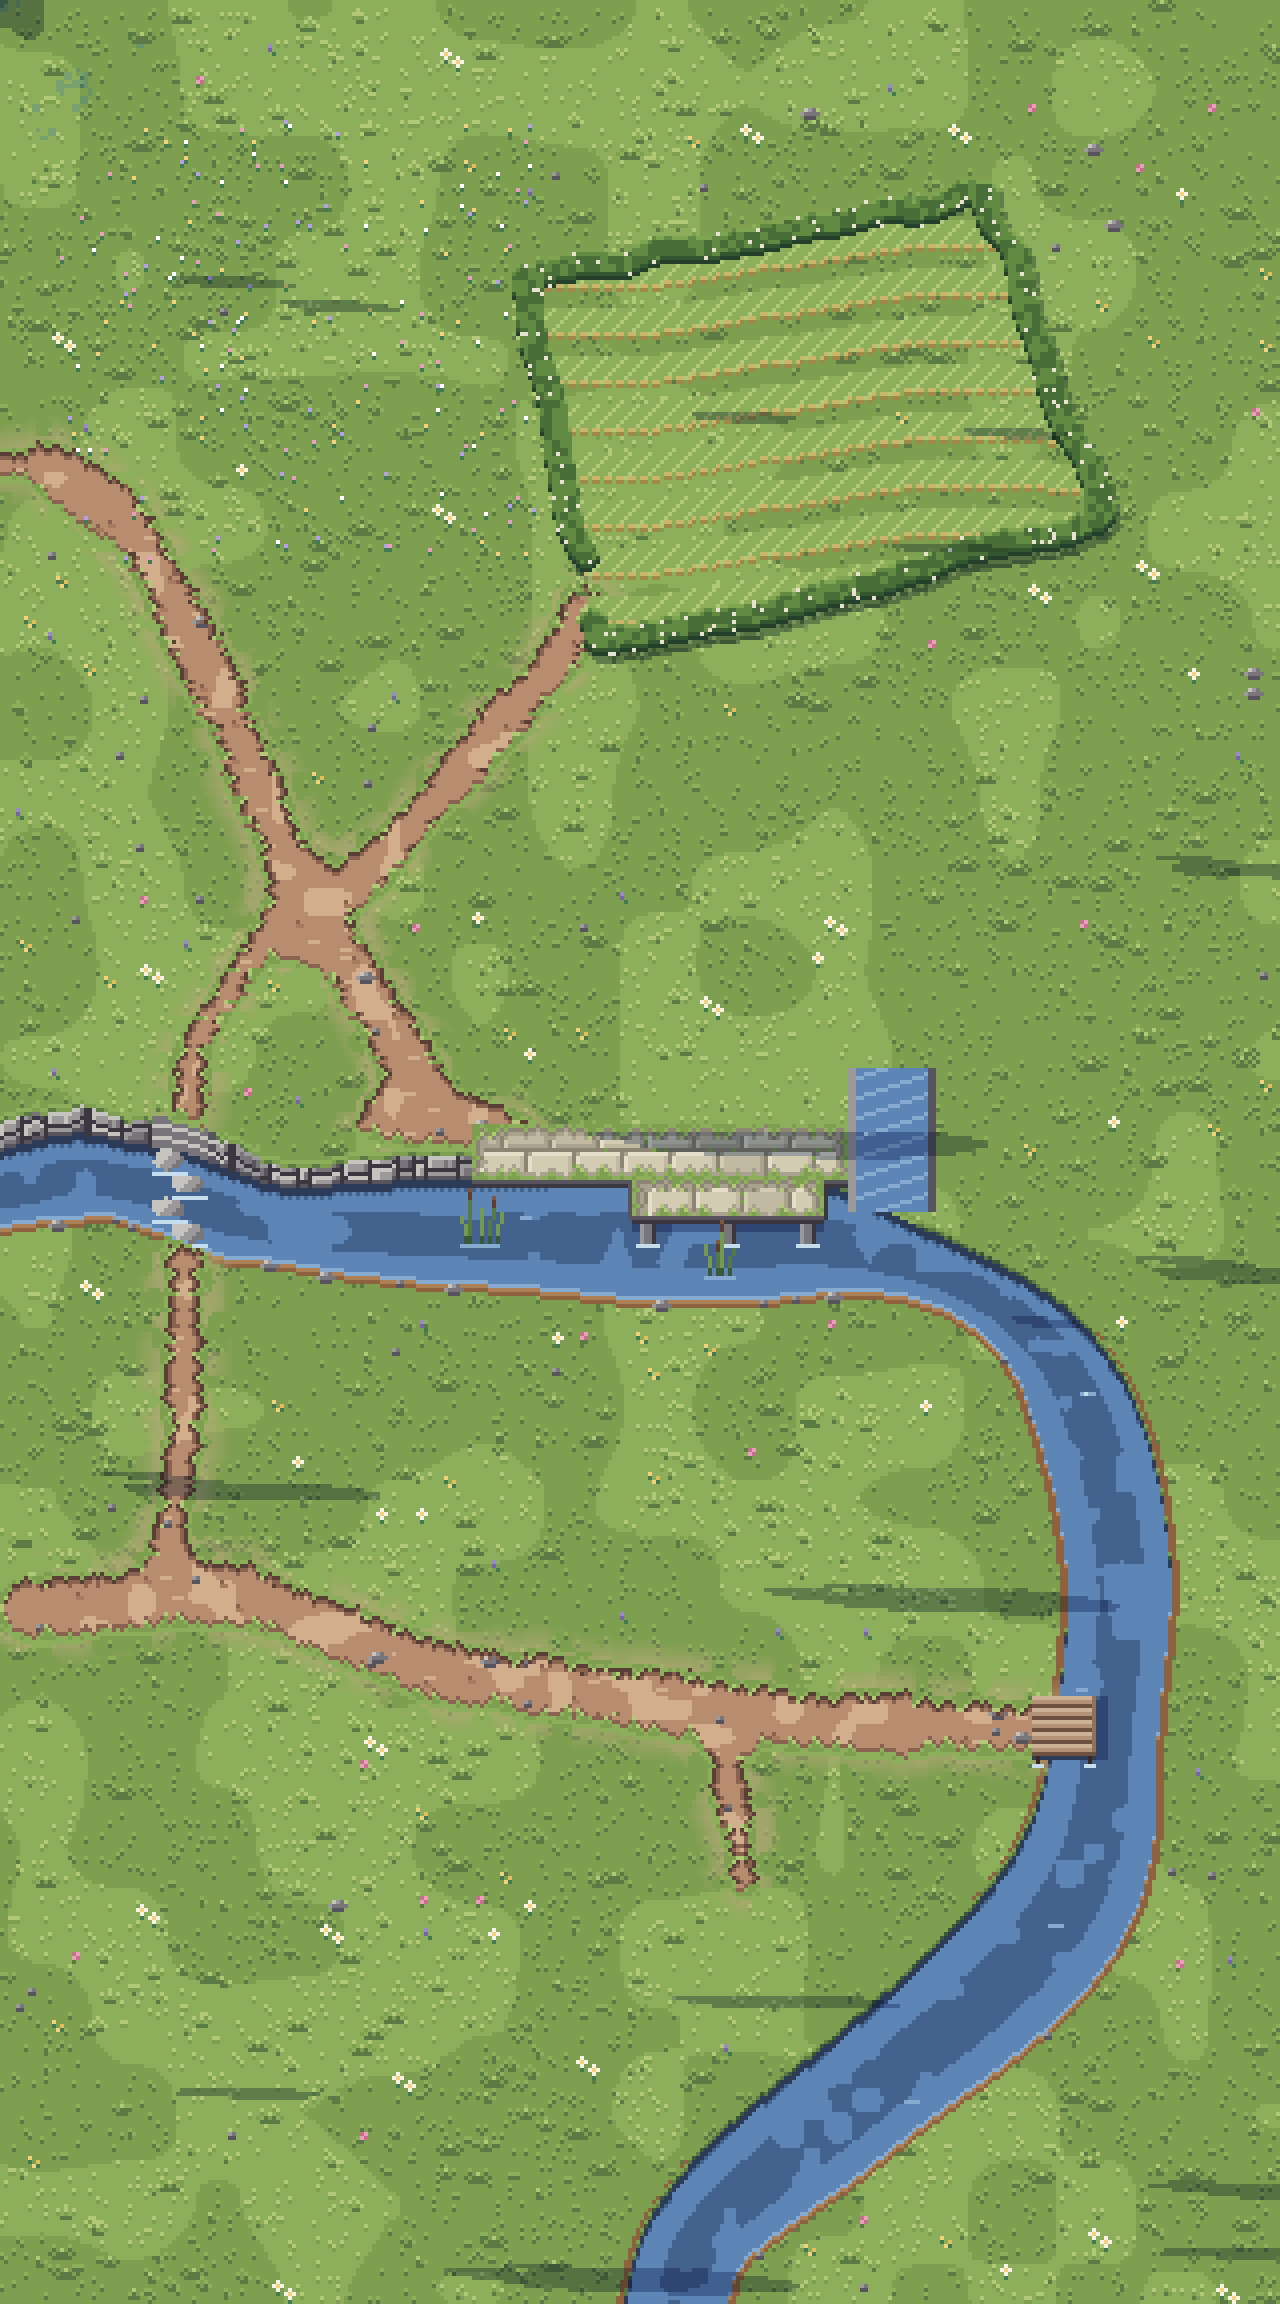
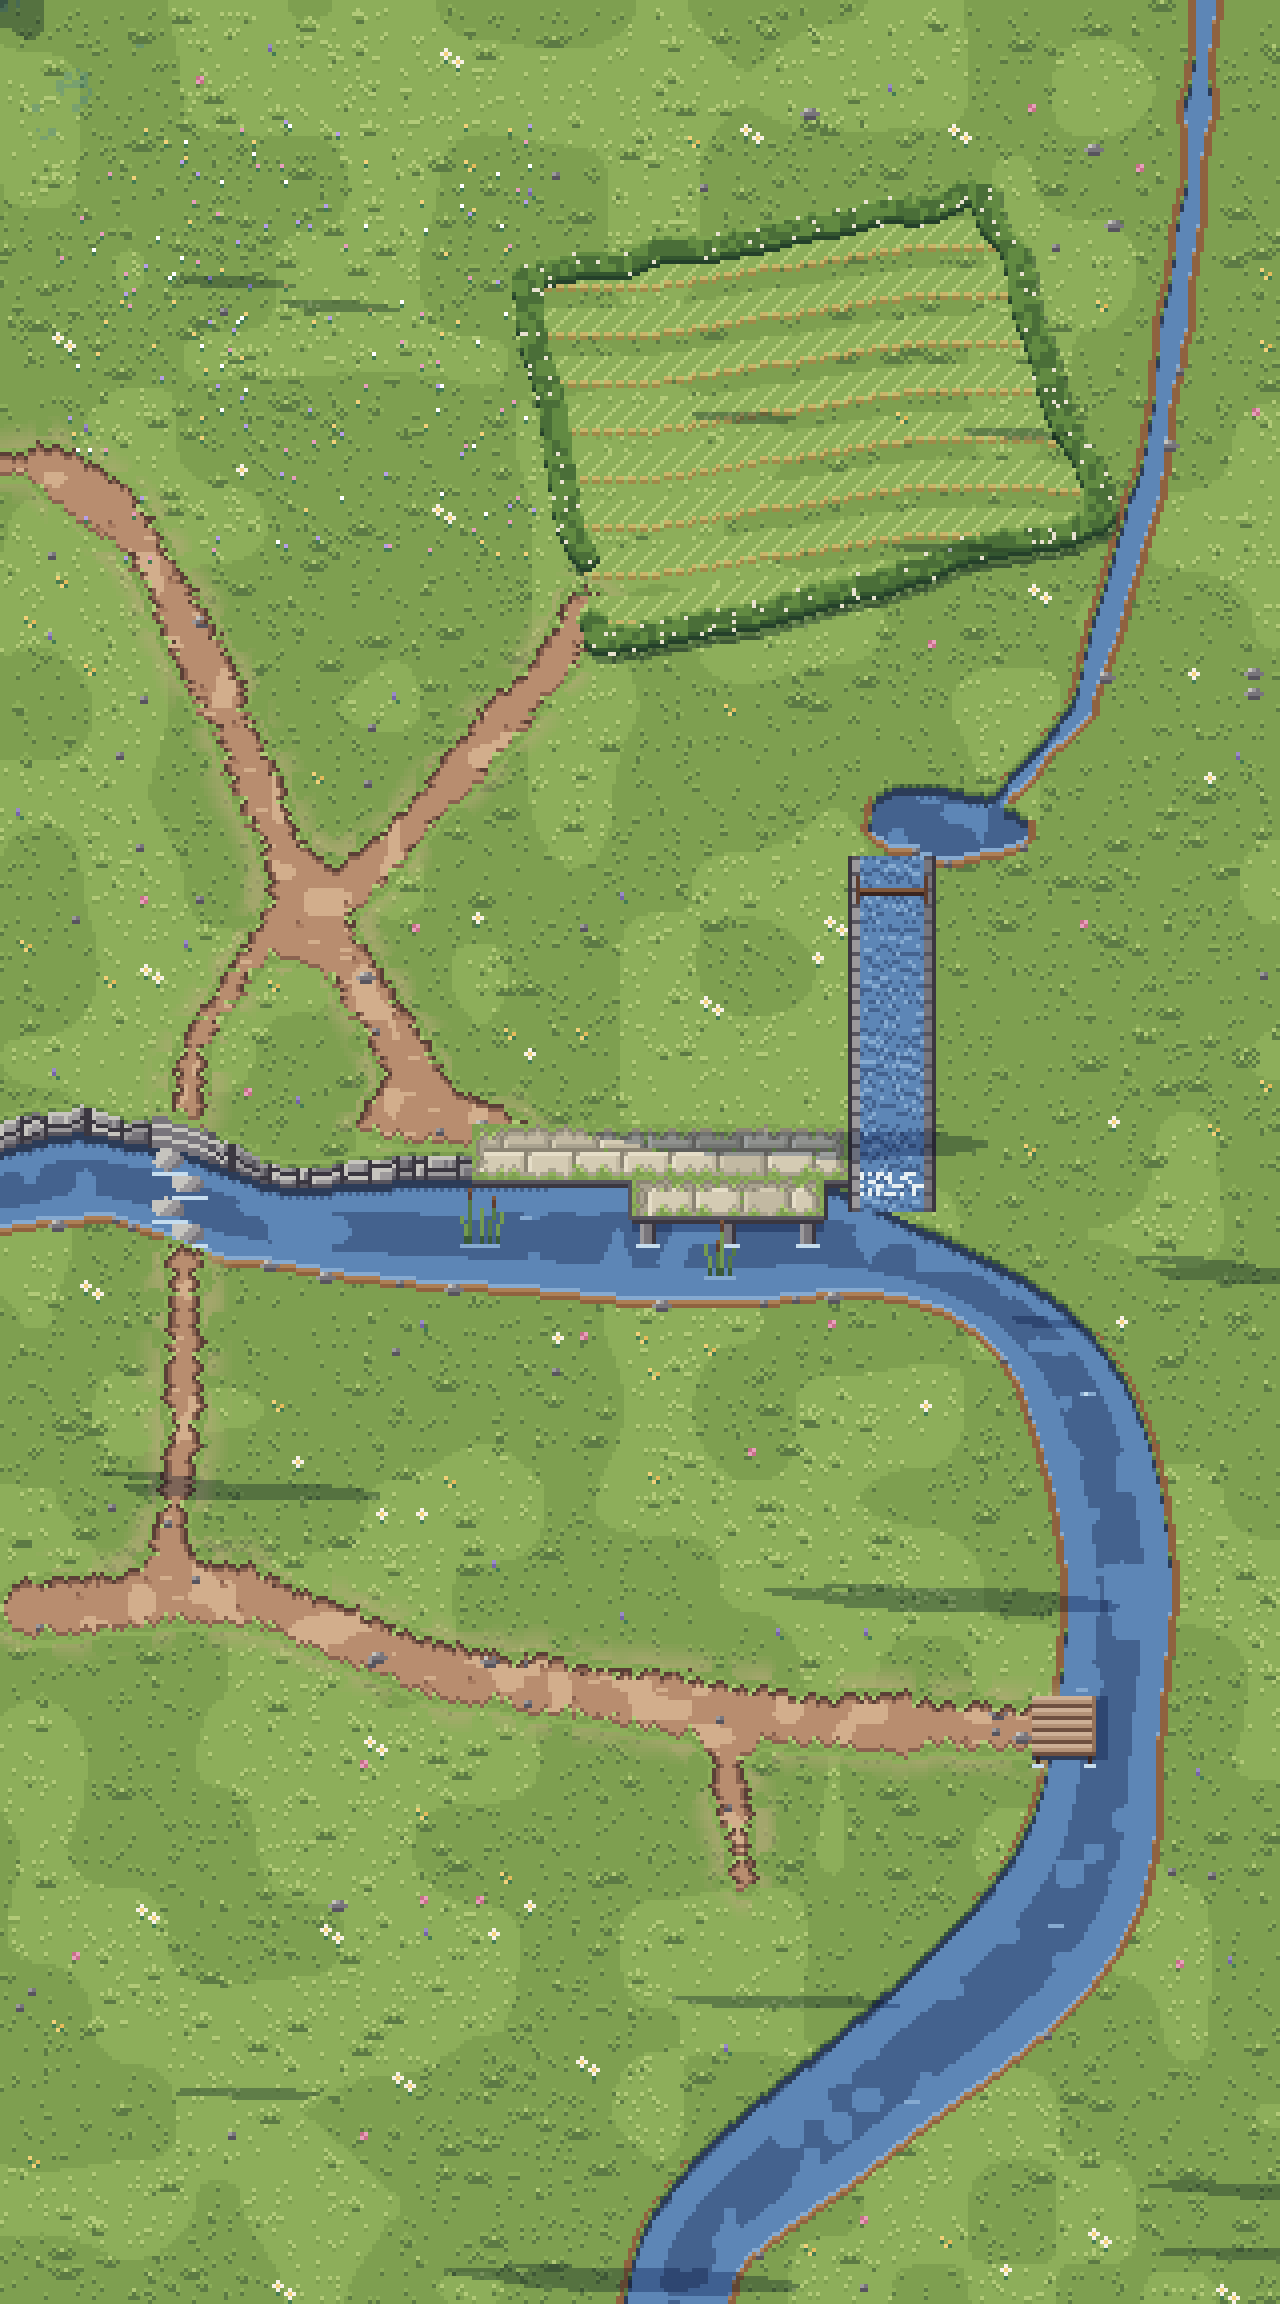
The mill's water: a brook into a millpond, a headrace with its sluice into the wheel pit, the pit walled in stone
Claude A after #73 asked for the wheel pit's race from upstream; Claude B (#77) drew the
wheel edge-on, breastshot from the north. A brook comes down off the wooded slope in the
north-east into a small millpond behind the mill; a stone-lined headrace leaves the pond
by a sluice board and drops into the pit's north end at about axle height; the pit runs
south between coursed stone walls with the water streaking and foaming at the wheel's
foot, and spills into the river. The small tree that stood where the pond is now is gone.

Claude-Session: https://claude.ai/code/session_01AbFmubxjF8fJSwxWbE77B9

Changed region(s): [[0.6562, 0.0, 0.9688, 0.5312], [0.9375, 0.375, 1.0, 0.4062]]

diff --git a/lib/zone-maps.ts b/lib/zone-maps.ts
@@ -416,7 +416,6 @@ export const zoneMaps: Record<ZoneId, ZoneMap> = {
       ['willow-2', 'willow', 101, 472, 68, 95],
       ['heron', 'heron', 247, 301, 14, 29],
       ['tree-1', 'tree', 5, 276, 57, 93],
-      ['tree-2', 'tree_small', 274, 146, 43, 69],
       ['bush-1', 'bush', 40, 498, 32, 25],
       ['bench', 'bench', 168, 472, 44, 28],
       ['pine-e2', 'pine', 280, 469, 36, 77],
@@ -429,72 +428,72 @@ export const zoneMaps: Record<ZoneId, ZoneMap> = {
       ['hive-2', 'beehive', 66, 46, 22, 30],
     ],
     walk: [
-      '80.',
-      '80.',
-      '80.',
-      '80.',
-      '80.',
-      '80.',
-      '80.',
-      '80.',
-      '80.',
-      '80.',
-      '80.',
-      '58.5#17.',
+      '74.2#4.',
+      '74.2#4.',
+      '74.2#4.',
+      '74.2#4.',
+      '74.2#4.',
+      '74.2#4.',
+      '74.2#4.',
+      '74.2#4.',
+      '74.2#4.',
+      '74.2#4.',
+      '74.1#5.',
+      '58.5#11.1#5.',
+      '53.10#10.2#5.',
+      '48.15#10.2#5.',
+      '40.18#3.3#9.2#5.',
+      '35.16#10.4#8.2#5.',
+      '10.5#17.15#15.3#8.2#5.',
+      '10.5#2.5#10.8#22.3#8.2#5.',
+      '17.5#10.2#29.2#7.3#5.',
+      '32.2#29.3#6.3#5.',
+      '32.3#28.3#6.3#5.',
+      '32.3#28.3#6.2#6.',
+      '32.3#29.3#5.2#6.',
+      '33.2#29.3#5.2#6.',
+      '33.3#7.4#17.3#5.2#6.',
+      '33.3#7.4#13.4#1.3#4.2#6.',
+      '33.3#24.4#1.3#3.2#7.',
+      '33.3#29.4#2.2#7.',
+      '34.2#30.3#2.2#7.',
+      '34.2#31.3#1.2#7.',
+      '34.3#30.6#7.',
+      '34.3#30.6#7.',
+      '34.3#19.5#3.8#8.',
+      '34.3#19.16#8.',
+      '35.3#18.12#1.3#8.',
+      '35.3#15.9#7.3#8.',
+      '49.10#10.2#9.',
+      '45.11#12.3#9.',
+      '36.2#2.12#16.3#9.',
+      '36.13#19.2#10.',
+      '36.7#24.3#10.',
+      '67.3#10.',
+      '67.2#11.',
+      '67.2#11.',
+      '66.3#11.',
+      '65.3#12.',
+      '64.3#13.',
+      '63.3#14.',
+      '63.2#15.',
+      '54.10#16.',
+      '54.10#16.',
+      '54.11#15.',
+      '54.11#15.',
       '53.10#17.',
-      '48.15#17.',
-      '40.18#3.3#16.',
-      '35.16#10.4#15.',
-      '10.5#17.15#15.3#15.',
-      '10.5#2.5#10.8#22.3#15.',
-      '17.5#10.2#29.2#15.',
-      '32.2#29.3#14.',
-      '32.3#28.3#14.',
-      '32.3#28.3#14.',
-      '32.3#29.3#13.',
-      '33.2#29.3#13.',
-      '33.3#7.4#17.3#13.',
-      '33.3#7.4#13.4#1.3#12.',
-      '33.3#24.4#1.3#12.',
-      '33.3#29.4#11.',
-      '34.2#30.3#11.',
-      '34.2#31.3#10.',
-      '34.3#30.3#10.',
-      '34.3#30.3#10.',
-      '34.3#19.5#3.6#10.',
-      '34.3#19.14#10.',
-      '35.3#18.12#12.',
-      '35.3#15.9#18.',
-      '49.10#21.',
-      '45.11#24.',
-      '36.2#2.12#28.',
-      '36.13#31.',
-      '36.7#37.',
-      '80.',
-      '80.',
-      '80.',
-      '80.',
-      '80.',
-      '80.',
-      '80.',
-      '80.',
-      '80.',
-      '80.',
-      '69.10#1.',
-      '69.10#1.',
-      '69.10#1.',
-      '80.',
-      '80.',
-      '80.',
-      '80.',
-      '80.',
-      '80.',
-      '80.',
-      '80.',
-      '80.',
-      '80.',
-      '80.',
-      '80.',
+      '53.6#21.',
+      '53.6#21.',
+      '53.6#21.',
+      '53.6#21.',
+      '53.6#21.',
+      '53.6#21.',
+      '53.6#21.',
+      '53.6#21.',
+      '53.6#21.',
+      '53.6#21.',
+      '53.6#21.',
+      '53.6#21.',
       '35.24#21.',
       '35.24#21.',
       '4.2#29.24#21.',
@@ -6788,82 +6787,82 @@ export const zoneTerrain: Record<ZoneId, readonly string[]> = {
     '36.8=36.',
   ].map(unrleTerrain),
   riverside: [
-    '80.',
-    '80.',
-    '80.',
-    '80.',
-    '80.',
-    '80.',
-    '80.',
-    '80.',
-    '80.',
-    '80.',
-    '80.',
-    '60.2^18.',
-    '54.9^17.',
-    '50.10^1.2^17.',
-    '45.9^7.2^17.',
-    '39.10^13.2^16.',
-    '33.12^18.2^15.',
-    '32.7^24.2^15.',
-    '32.2^29.2^15.',
-    '32.2^29.2^15.',
-    '32.2^30.2^14.',
-    '33.1^30.2^14.',
-    '33.2^29.2^14.',
-    '33.2^30.1^14.',
-    '33.2^30.2^13.',
-    '34.2^29.2^13.',
-    '34.2^30.1^13.',
-    '34.2^30.2^12.',
-    '2.3=29.2^31.2^11.',
-    '6=28.2^31.2^11.',
-    '3.5=26.2^32.2^10.',
-    '4.4=27.1^32.2^10.',
-    '5.4=26.2^29.4^10.',
-    '6.4=25.2^24.8^11.',
-    '8.2=25.2^21.8^14.',
-    '9.2=25.1^18.5^20.',
-    '9.3=39.7^22.',
-    '10.2=36.7^25.',
-    '10.3=22.1=2^4.9^29.',
-    '10.3=22.1=11^33.',
-    '11.3=20.2=1.4^39.',
-    '11.3=19.3=44.',
-    '12.3=18.2=45.',
-    '12.3=16.3=46.',
-    '13.2=15.3=47.',
-    '14.2=14.3=47.',
-    '14.2=13.3=48.',
-    '14.3=11.3=49.',
-    '15.2=10.3=50.',
-    '15.3=8.3=51.',
-    '15.3=8.2=52.',
-    '16.2=7.2=53.',
-    '17.1=6.2=54.',
-    '17.3=2.3=55.',
-    '17.7=56.',
-    '17.7=56.',
-    '17.6=57.',
-    '17.5=58.',
-    '16.6=58.',
-    '15.8=57.',
-    '15.1=4.3=57.',
-    '14.1=6.3=56.',
-    '13.2=6.4=55.',
-    '13.1=8.4=54.',
-    '12.1=10.3=54.',
-    '12.1=10.4=53.',
-    '11.2=11.3=53.',
-    '11.2=11.4=25.5~1^21.',
-    '11.1=12.5=24.5~1^21.',
-    '1.7^3.2=10.8=22.5~1^21.',
-    '10^13.7=23.5~1^21.',
+    '75.1~4.',
+    '75.1~4.',
+    '75.1~4.',
+    '75.1~4.',
+    '74.2~4.',
+    '74.2~4.',
+    '74.2~4.',
+    '74.2~4.',
+    '74.1~5.',
+    '74.1~5.',
+    '74.1~5.',
+    '60.2^12.1~5.',
+    '54.9^11.1~5.',
+    '50.10^1.2^11.1~5.',
+    '45.9^7.2^10.2~5.',
+    '39.10^13.2^9.2~5.',
+    '33.12^18.2^8.2~5.',
+    '32.7^24.2^8.1~6.',
+    '32.2^29.2^8.1~6.',
+    '32.2^29.2^8.1~6.',
+    '32.2^30.2^6.2~6.',
+    '33.1^30.2^6.2~6.',
+    '33.2^29.2^6.2~6.',
+    '33.2^30.1^6.2~6.',
+    '33.2^30.2^5.1~7.',
+    '34.2^29.2^5.1~7.',
+    '34.2^30.1^5.1~7.',
+    '34.2^30.2^4.1~7.',
+    '2.3=29.2^31.2^2.2~7.',
+    '6=28.2^31.2^2.2~7.',
+    '3.5=26.2^32.2^1.2~7.',
+    '4.4=27.1^32.2^2~8.',
+    '5.4=26.2^29.4^2~8.',
+    '6.4=25.2^24.8^1.2~8.',
+    '8.2=25.2^21.8^4.1~9.',
+    '9.2=25.1^18.5^9.2~9.',
+    '9.3=39.7^11.2~9.',
+    '10.2=36.7^14.1~10.',
+    '10.3=22.1=2^4.9^17.2~10.',
+    '10.3=22.1=11^21.2~10.',
+    '11.3=20.2=1.4^27.2~10.',
+    '11.3=19.3=32.1~11.',
+    '12.3=18.2=32.2~11.',
+    '12.3=16.3=33.1~12.',
+    '13.2=15.3=34.1~12.',
+    '14.2=14.3=33.1~13.',
+    '14.2=13.3=33.1~14.',
+    '14.3=11.3=33.1~15.',
+    '15.2=10.3=33.2~15.',
+    '15.3=8.3=26.5~2.2~16.',
+    '15.3=8.2=27.8~17.',
+    '16.2=7.2=27.10~16.',
+    '17.1=6.2=29.9~16.',
+    '17.3=2.3=29.7~19.',
+    '17.7=29.1^4~1^21.',
+    '17.7=29.1^3~2^21.',
+    '17.6=30.1^4~1^21.',
+    '17.5=31.1^4~1^21.',
+    '16.6=31.1^4~1^21.',
+    '15.8=30.1^4~1^21.',
+    '15.1=4.3=30.1^4~1^21.',
+    '14.1=6.3=29.1^4~1^21.',
+    '13.2=6.4=28.1^4~1^21.',
+    '13.1=8.4=27.1^4~1^21.',
+    '12.1=10.3=27.1^4~1^21.',
+    '12.1=10.4=26.1^4~1^21.',
+    '11.2=11.3=26.1^4~1^21.',
+    '11.2=11.4=25.1^4~1^21.',
+    '11.1=12.5=24.1^4~1^21.',
+    '1.7^3.2=10.8=22.1^4~1^21.',
+    '10^13.7=23.1^4~1^21.',
     '1^8~5.1^12.2=24.5~1^21.',
     '10~4.4^2.10^23.5~1^21.',
-    '10~3.2~15^23.5~1^21.',
-    '10~3.26~13.6~1^21.',
-    '10~3.26~13.6~22.',
+    '10~3.2~15^23.1^4~1^21.',
+    '10~3.26~13.1~1^3~2^21.',
+    '10~3.26~13.1~1^4~22.',
     '2~6.1~4.27~1^4~1^4~1^6~23.',
     '13.27~1^4~1^4~1^8~21.',
     '11.1=2.47~19.',

diff --git a/scripts/art/valley_zones.py b/scripts/art/valley_zones.py
@@ -1020,12 +1020,36 @@ def riverside(frame: int = 0):
     # flags along its front, where its door opens, joining the lane from the garden
     mx = 218
     mt = top.get(mx, 300)
-    race = {(x, y) for x in range(mx - 6, mx + 16) for y in range(mt - 34, mt + 2)}
+    # the mill's water (Claude A after #73, Claude B's edge-on wheel #77): a brook comes
+    # down off the wooded slope in the north-east into a small millpond behind the mill;
+    # a stone-lined headrace leaves the pond by a sluice and drops into the wheel pit's
+    # north end at about axle height (breastshot, the wheel turning north side down); the
+    # pit runs south between coursed stone walls and its tailrace spills into the river
+    brook = worlds.thick([(302, -6), (298, 50), (288, 118), (270, 178), (248, 202)], 2.5, seed=1410)
+    pond = blob(236, 206, 19, 9, seed=1411, rough=0.18)
+    lead = {(x, y) for x in range(mx - 2, mx + 12) for y in range(212, mt - 30)}
+    millwater = (brook | pond) - lead
+    bank(cv, millwater, seed=1412)
+    water_body(cv, millwater, set(pond), seed=1413, glints=8)
+    race = {(x, y) for x in range(mx - 6, mx + 16) for y in range(214, mt + 2)}
     for (x, y) in race:
-        c = WTR[2] if mx - 4 <= x < mx + 14 else STONE[3] if x < mx - 4 else STONE[1]
-        if mx - 4 <= x < mx + 14 and (y + x // 3) % 5 == 0:
-            c = WTR[3]
+        inner = mx - 3 <= x < mx + 13
+        if not inner:  # its walls: coursed stone, lit on the west face's top, dark joints
+            k = (y + (x // 3) * 2) % 4
+            c = STONE[1] if k == 0 else STONE[3] if x < mx else STONE[2]
+            if x in (mx - 6, mx + 15):
+                c = STONE[0]
+        else:  # the water: running south in streaks, white where it falls off the wheel
+            streak = (y * 2 - x // 2 + int(noise2(x, y // 4, 1414) * 6)) % 9
+            c = WTR[3] if streak == 0 else WTR[1] if streak in (4, 5) else WTR[2]
+            if mt - 8 <= y < mt - 2 and noise2(x, y, 1415) > 0.55:
+                c = '#E8F0F2'  # foam at the wheel's foot
         cv.set(x, y, c)
+    for x in range(mx - 3, mx + 13):  # the sluice board across the headrace by the pond
+        cv.set(x, 222, WOOD[2]); cv.set(x, 223, WOOD[0])
+    for y in range(219, 226):
+        cv.set(mx - 4, y, WOOD[1]); cv.set(mx + 13, y, WOOD[1])
+    race |= millwater
     towpath = {(x, y) for x in range(118, mx - 6) for y in range(mt - 20, mt - 6)}
     # the lane to the mill, in from the garden's footpath at the same rows and width at
     # the seam (garden rows 112-119, Claude B's #75), then down the meadow to the mill yard
@@ -1092,7 +1116,7 @@ def riverside(frame: int = 0):
     objects = [
         ('mill', 'water_mill', 140, mt - 104), ('willow-1', 'willow', 176, 300), ('willow-2', 'willow', 96, 470),
         ('heron', 'heron', heron_x, heron_y),  # wading in the shallows at the outer bank
-        ('tree-1', 'tree', 2, 280), ('tree-2', 'tree_small', 272, 150), ('bush-1', 'bush', 40, 500),
+        ('tree-1', 'tree', 2, 280), ('bush-1', 'bush', 40, 500),
         ('bench', 'bench', 168, 472),  # on the bank above the bend, looking down onto the water ('sack-1', 'sack', 146, mt - 28), ('barrel-m', 'barrel', 200, mt - 32),
         # old trees on the east bank, running on into the forest beyond
         ('pine-e2', 'pine', 280, 470), ('tree-e3', 'tree_autumn', 260, 226),
